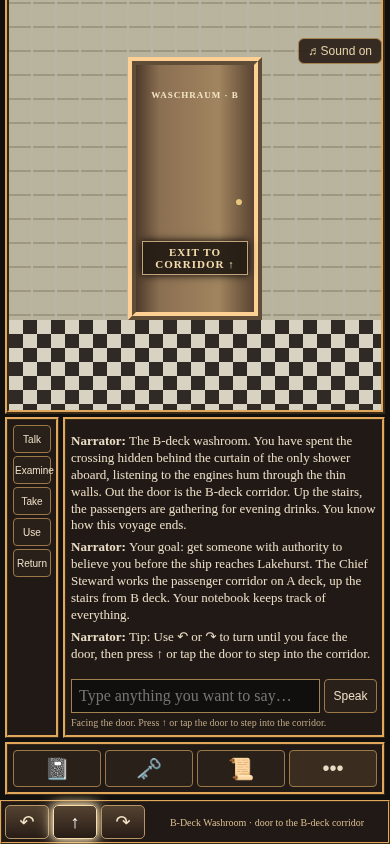
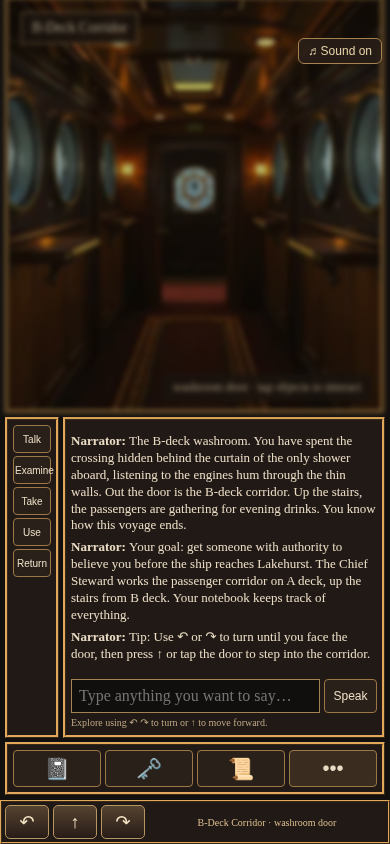
fix(art): prevent missed has-art on cached loads
PM tiny-fix: set img onload/onerror before src and honor img.complete
so cached CDN hits still add .has-art (original QA race). Also skip
applySceneArt until the title overlay is dismissed so the early
cabin_bunk draw() does not abort a cabin.webp fetch. Mobile 390x844
retest across 5 views now shows hasArt with door.webp.

diff --git a/index.html b/index.html
@@ -41,6 +41,9 @@ let view='cabin_bunk',steps=0, busy=false;const scene=$('#scene');
 function applySceneArt(paintEl, style){
   const url=artUrl(style);
   if(!url) return;
+  // Skip until the title overlay exists and is dismissed (early draw() runs before #titleoverlay is parsed).
+  const title=document.querySelector('#titleoverlay');
+  if(!title || !title.hidden) return;
   paintEl.classList.remove('has-art');
   const old=paintEl.querySelector('.scene-art');
   if(old) old.remove();
@@ -48,9 +51,12 @@ function applySceneArt(paintEl, style){
   img.className='scene-art';
   img.alt='';
   img.decoding='async';
-  img.src=url;
-  img.onload=()=>paintEl.classList.add('has-art');
+  // Handlers BEFORE src — cached loads can fire onload synchronously.
+  const mark=()=>{if(img.naturalWidth>0)paintEl.classList.add('has-art')};
+  img.onload=mark;
   img.onerror=()=>{img.remove();paintEl.classList.remove('has-art')};
+  img.src=url;
+  if(img.complete) mark();
   paintEl.insertBefore(img, paintEl.firstChild);
 }
 function scenery(v){let n=nodes[v],style=n.style,s='<div class="paint"><div class="ceiling"></div><div class="perspective-floor"></div>';
